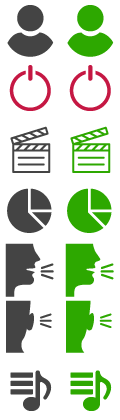
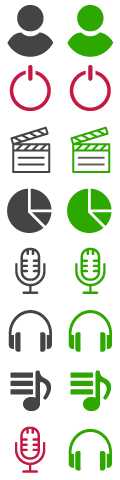
add user listen/record numbers on the header

diff --git a/vue_app/public/css/styles.css b/vue_app/public/css/styles.css
@@ -7689,7 +7689,7 @@ h3 {
       width: 20px;
       height: 20px;
       background-image: url("../img/user-panel-icons@2x.png");
-      background-size: 40px 140px;
+      background-size: 40px 160px;
       background-repeat: no-repeat;
       margin: 0 5px 0 10px; }
       .user-menu .user-submenu-link .icon.user {
@@ -7727,6 +7727,39 @@ h3 {
       .user-menu .user-submenu-link:hover .icon.audio-monitoring {
         background-position: -20px -120px; }
 
+.user-metrics {
+  height: 30px;
+  margin: 15px 10px 15px 20px; }
+  .user-metrics > span {
+    display: inline-block;
+    vertical-align: top; }
+  .user-metrics .metrics {
+    height: 30px;
+    font-size: 16px;
+    font-weight: 700;
+    line-height: 30px;
+    padding: 0;
+    margin: 0;
+    color: #444444;
+    padding-right: 10px; }
+    .user-metrics .metrics.record {
+      color: #c61e42; }
+    .user-metrics .metrics.listen {
+      color: #2da800;
+      border-right: 1px solid #ccc; }
+  .user-metrics .icon {
+    display: inline-block;
+    height: 20px;
+    width: 20px;
+    background-image: url("../img/user-panel-icons@2x.png");
+    background-size: 40px 160px;
+    background-repeat: no-repeat;
+    margin: 5px; }
+    .user-metrics .icon.record {
+      background-position: 0 -140px; }
+    .user-metrics .icon.listen {
+      background-position: -20px -140px; }
+
 /*** END HEADER ***/
 @media screen and (max-width: 1024px) {
   #header {
@@ -7747,12 +7780,16 @@ h3 {
   .user-menu .toggle-user-menu.opened .icon {
     background-position: 0 -5px; }
   .user-menu .user-submenu {
-    top: 40px; } }
+    top: 40px; }
+  .user-metrics {
+    margin: 5px 10px 5px 20px !important; } }
 
 @media screen and (max-width: 960px) {
   #header .button,
   #header .header-link {
-    font-size: 14px; } }
+    font-size: 14px; }
+  .user-metrics {
+    display: none !important; } }
 
 @media screen and (max-width: 600px) {
   #header .row .col-4,

diff --git a/vue_app/public/sass/components/header.scss b/vue_app/public/sass/components/header.scss
@@ -177,7 +177,7 @@
       width: 20px;
       height: 20px;
       background-image: url('../img/user-panel-icons@2x.png');
-      background-size: 40px 140px;
+      background-size: 40px 160px;
       background-repeat: no-repeat;
       margin: 0 5px 0 10px;
 
@@ -248,6 +248,52 @@
     }
   }
 }
+
+.user-metrics {
+  height: 30px;
+  margin: 15px 10px 15px 20px;
+
+  & > span {
+    display: inline-block;
+    vertical-align: top;
+  }
+  .metrics{
+    height: 30px;
+    font-size: 16px;
+    font-weight: 700;
+    line-height: 30px;
+    padding: 0;
+    margin: 0;
+    color: $greyText;
+    padding-right: 10px;
+
+    &.record{
+      color: $redChart;
+    }
+    &.listen{
+      color: $greenChart;
+      border-right: 1px solid #ccc;
+    }
+  }
+  .icon{
+    display: inline-block;
+    height: 20px;
+    width: 20px;
+
+    background-image: url('../img/user-panel-icons@2x.png');
+    background-size: 40px 160px;
+    background-repeat: no-repeat;
+    margin: 5px ;
+
+    &.record {
+      background-position: 0 -140px;
+    }
+    &.listen{
+      background-position: -20px -140px;
+    }
+  }
+
+}
 /*** END HEADER ***/
 
 @media screen and (max-width: 1024px) {
@@ -288,6 +334,9 @@
       top: 40px;
     }
   }
+  .user-metrics{
+    margin: 5px 10px 5px 20px !important;
+  }
 
 }
 @media screen and (max-width: 960px) {
@@ -296,6 +345,9 @@
     .header-link{
       font-size: 14px;
     }
+  }
+  .user-metrics{
+    display: none !important;
   }
 }
 

diff --git a/vue_app/src/components/Header.vue b/vue_app/src/components/Header.vue
@@ -12,7 +12,11 @@
       </div>
       <div class="col-4 col-sm-4 col-md-4 col-lg-4 col-xl-4 user-panel">
         <button v-if="!userConnected" class="button red" @click="toggleConnectionModal()">Connexion</button>
+
         <div v-if="userConnected" class="user-menu">
+          <div class="user-metrics" style="display: inline-block;">
+          <span class="icon record"></span><span class="metrics record">{{ userInfos.nbRecord }}</span> <span class="icon listen"></span><span class="metrics listen">{{ userInfos.nbListen }}</span>
+          </div>
           <button class="toggle-user-menu" @click="toggleUserMenu" :class="[showUserMenu ? 'opened' : 'closed']">
             <span class="label">{{ userInfos.userName }}</span>
             <span class="icon"></span>
